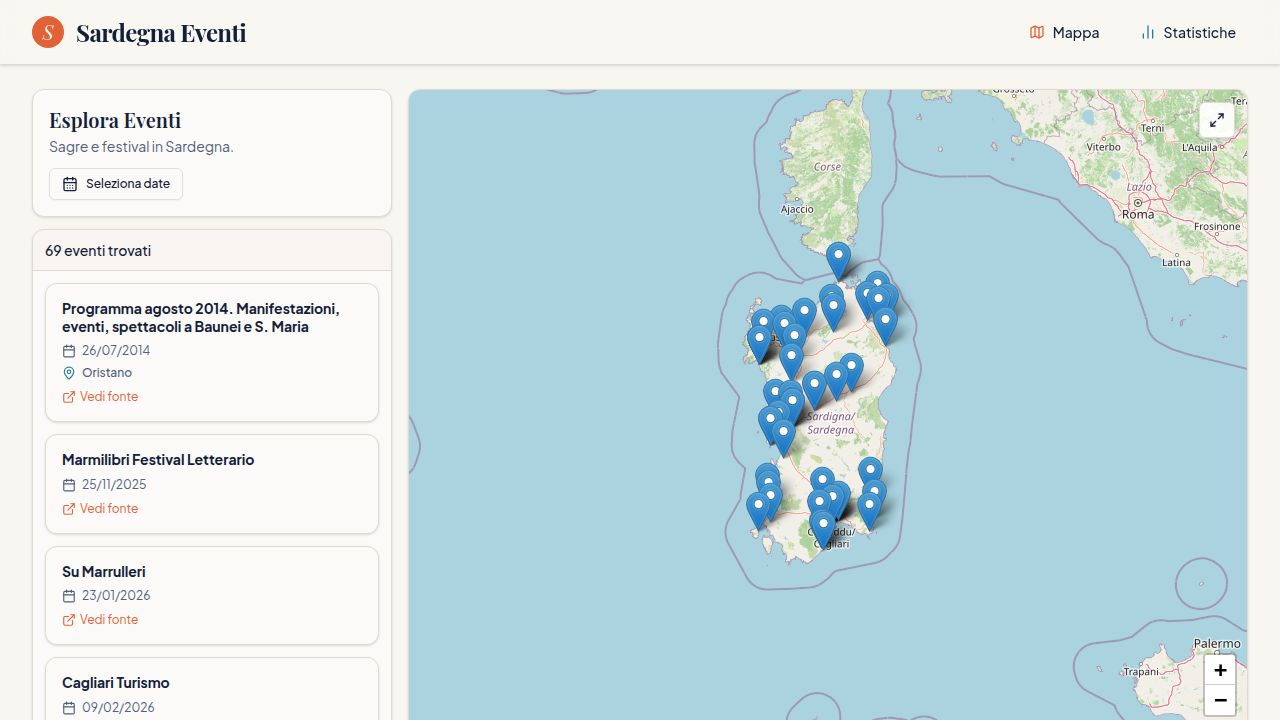
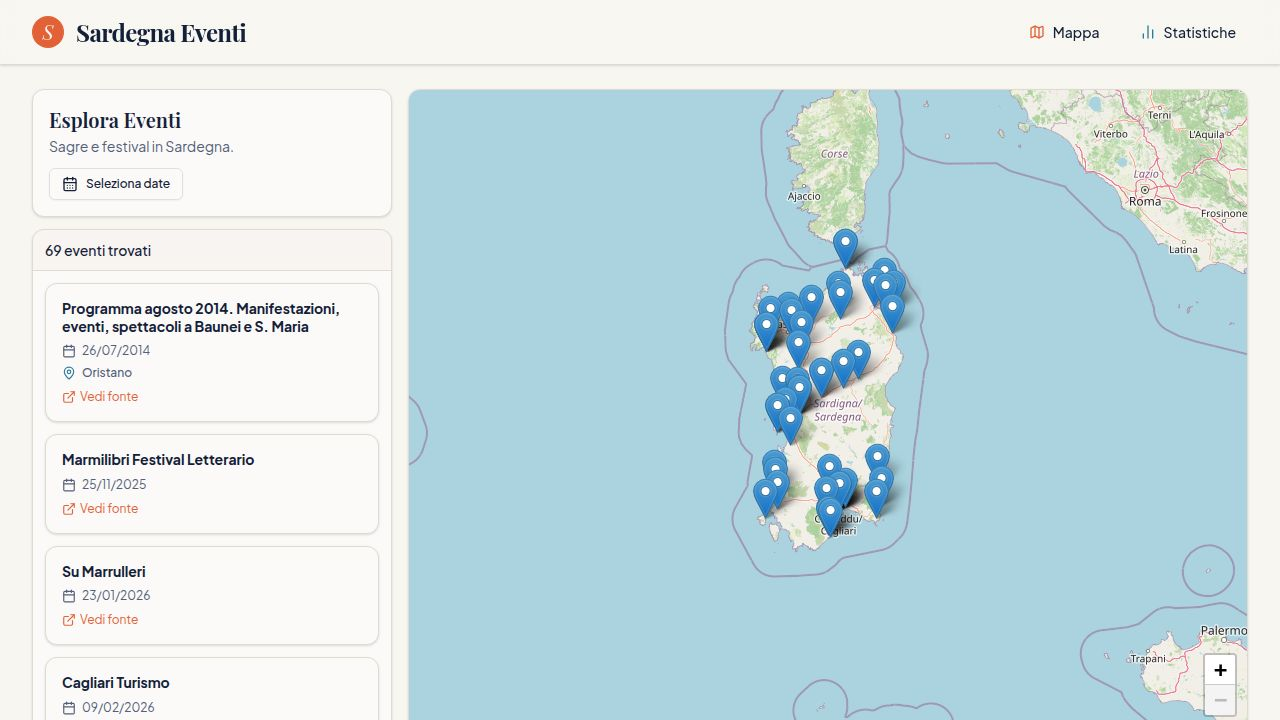
Adjust map zoom levels to improve user viewing experience
Update map zoom limits to allow deeper zooming in and restrict zooming out, preventing users from panning outside of Sardinia, specifically setting minZoom to 7 and maxZoom to 20 in map-container.tsx.

Replit-Commit-Author: Agent
Replit-Commit-Session-Id: 49d021ff-8844-4855-b402-ac8b51a79f95
Replit-Commit-Checkpoint-Type: full_checkpoint
Replit-Commit-Event-Id: 7867b628-67c0-4898-9a55-66b7919d919c
Replit-Commit-Screenshot-Url: https://storage.googleapis.com/screenshot-production-us-central1/b1922a3b-1388-4228-9fb0-a4b1bf519dd3/49d021ff-8844-4855-b402-ac8b51a79f95/wpIE56n
Replit-Helium-Checkpoint-Created: true

diff --git a/artifacts/sardegna-map/src/components/map-container.tsx b/artifacts/sardegna-map/src/components/map-container.tsx
@@ -47,8 +47,8 @@ export function MapContainer({
       zoomControl: false,
       maxBounds: SARDINIA_BOUNDS,
       maxBoundsViscosity: 1.0,
-      minZoom: 6,
-      maxZoom: 16,
+      minZoom: 7,
+      maxZoom: 20,
     });
 
     L.tileLayer("https://{s}.tile.openstreetmap.org/{z}/{x}/{y}.png", {